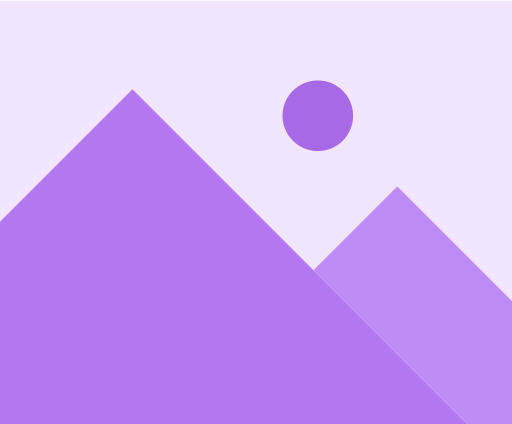
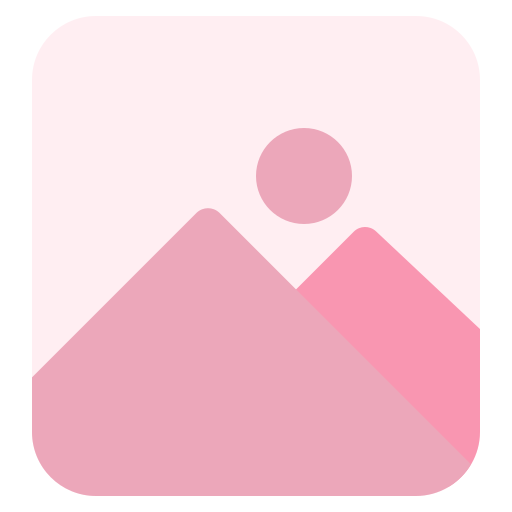
Landing Page UI Done

diff --git a/Frontend/src/routes/+page.svelte b/Frontend/src/routes/+page.svelte
@@ -1,3 +1,11 @@
+<script>
+  import { goto } from "$app/navigation";
+
+	function signInWithGoogle() {
+		goto('/userForm');
+	}
+</script>
+
 <div class="flex items-center justify-center min-h-screen px-4">
 	<div class="flex flex-col lg:flex-row items-center justify-center gap-8 lg:gap-16 max-w-6xl w-full">
 		<!-- Image Section -->
@@ -11,15 +19,21 @@
 		
 		<!-- Text and Button Section -->
 		<div class="text-center lg:text-left flex flex-col items-center lg:items-start">
-			<h1 class="text-4xl md:text-7xl lg:text-7xl xl:text-8xl font-bold mb-8" style="font-family: 'Lobster', cursive; color: var(--primary-color);">
-				Find Your Date
-			</h1>
-			<button 
-				class="px-8 cursor-pointer py-4 rounded-full text-white font-semibold text-xs hover:opacity-90 transition-opacity duration-200 shadow-lg"
-				style="background-color: var(--primary-color); font-family: 'Montserrat', sans-serif;"
+			<button onclick={signInWithGoogle} 
+				class="flex items-center justify-center gap-3 px-6 py-3 bg-white border border-gray-300 rounded-full text-gray-700 font-medium text-base hover:bg-gray-50 hover:border-gray-400 transition-all duration-200"
+				style="font-family: 'Montserrat', sans-serif;"
 			>
-				Sign in with SNU ID
+				<svg width="20" height="20" viewBox="0 0 24 24">
+					<path fill="#4285F4" d="M22.56 12.25c0-.78-.07-1.53-.2-2.25H12v4.26h5.92c-.26 1.37-1.04 2.53-2.21 3.31v2.77h3.57c2.08-1.92 3.28-4.74 3.28-8.09z"/>
+					<path fill="#34A853" d="M12 23c2.97 0 5.46-.98 7.28-2.66l-3.57-2.77c-.98.66-2.23 1.06-3.71 1.06-2.86 0-5.29-1.93-6.16-4.53H2.18v2.84C3.99 20.53 7.7 23 12 23z"/>
+					<path fill="#FBBC05" d="M5.84 14.09c-.22-.66-.35-1.36-.35-2.09s.13-1.43.35-2.09V7.07H2.18C1.43 8.55 1 10.22 1 12s.43 3.45 1.18 4.93l2.85-2.22.81-.62z"/>
+					<path fill="#EA4335" d="M12 5.38c1.62 0 3.06.56 4.21 1.64l3.15-3.15C17.45 2.09 14.97 1 12 1 7.7 1 3.99 3.47 2.18 7.07l3.66 2.84c.87-2.6 3.3-4.53 6.16-4.53z"/>
+				</svg>
+				Sign in with Google
 			</button>
+			<p class="mt-3 text-sm font-medium" style="color: var(--primary-color); font-family: 'Montserrat', sans-serif;">
+				Sign in with your SNU mail ID
+			</p>
 		</div>
 	</div>
 </div>

diff --git a/Frontend/src/app.html b/Frontend/src/app.html
@@ -7,8 +7,7 @@
 	</head>
 	<link rel="preconnect" href="https://fonts.googleapis.com">
 	<link rel="preconnect" href="https://fonts.gstatic.com" crossorigin>
-	<link href="https://fonts.googleapis.com/css2?family=Lobster&display=swap" rel="stylesheet">
-	<link href="https://fonts.googleapis.com/css2?family=Montserrat:ital,wght@0,100..900;1,100..900&display=swap" rel="stylesheet">
+	<link href="https://fonts.googleapis.com/css2?family=Nunito:ital,wght@0,200..1000;1,200..1000&display=swap" rel="stylesheet">
 	<body data-sveltekit-preload-data="hover">
 		<div style="display: contents">%sveltekit.body%</div>
 	</body>

diff --git a/Frontend/src/routes/+layout.svelte b/Frontend/src/routes/+layout.svelte
@@ -9,6 +9,6 @@
 	<link rel="icon" href={favicon} />
 </svelte:head>
 
-<div class="min-h-screen bg-gradient-to-br from-purple-50 via-white to-purple-100">
+<div class="min-h-screen bg-gradient-to-br from-purple-100 via-white to-purple-100">
 	{@render children?.()}
 </div>

diff --git a/Frontend/src/app.css b/Frontend/src/app.css
@@ -2,7 +2,7 @@
 
 /* CSS Variables */
 :root {
-	--primary-color: #b477f2;
+	--primary-color: #ECA7BA;
 }
 
 /* Global background styling */

diff --git a/Frontend/src/routes/userForm/+page.svelte b/Frontend/src/routes/userForm/+page.svelte
@@ -1,0 +1,1 @@
+<h2>User Form</h2>
